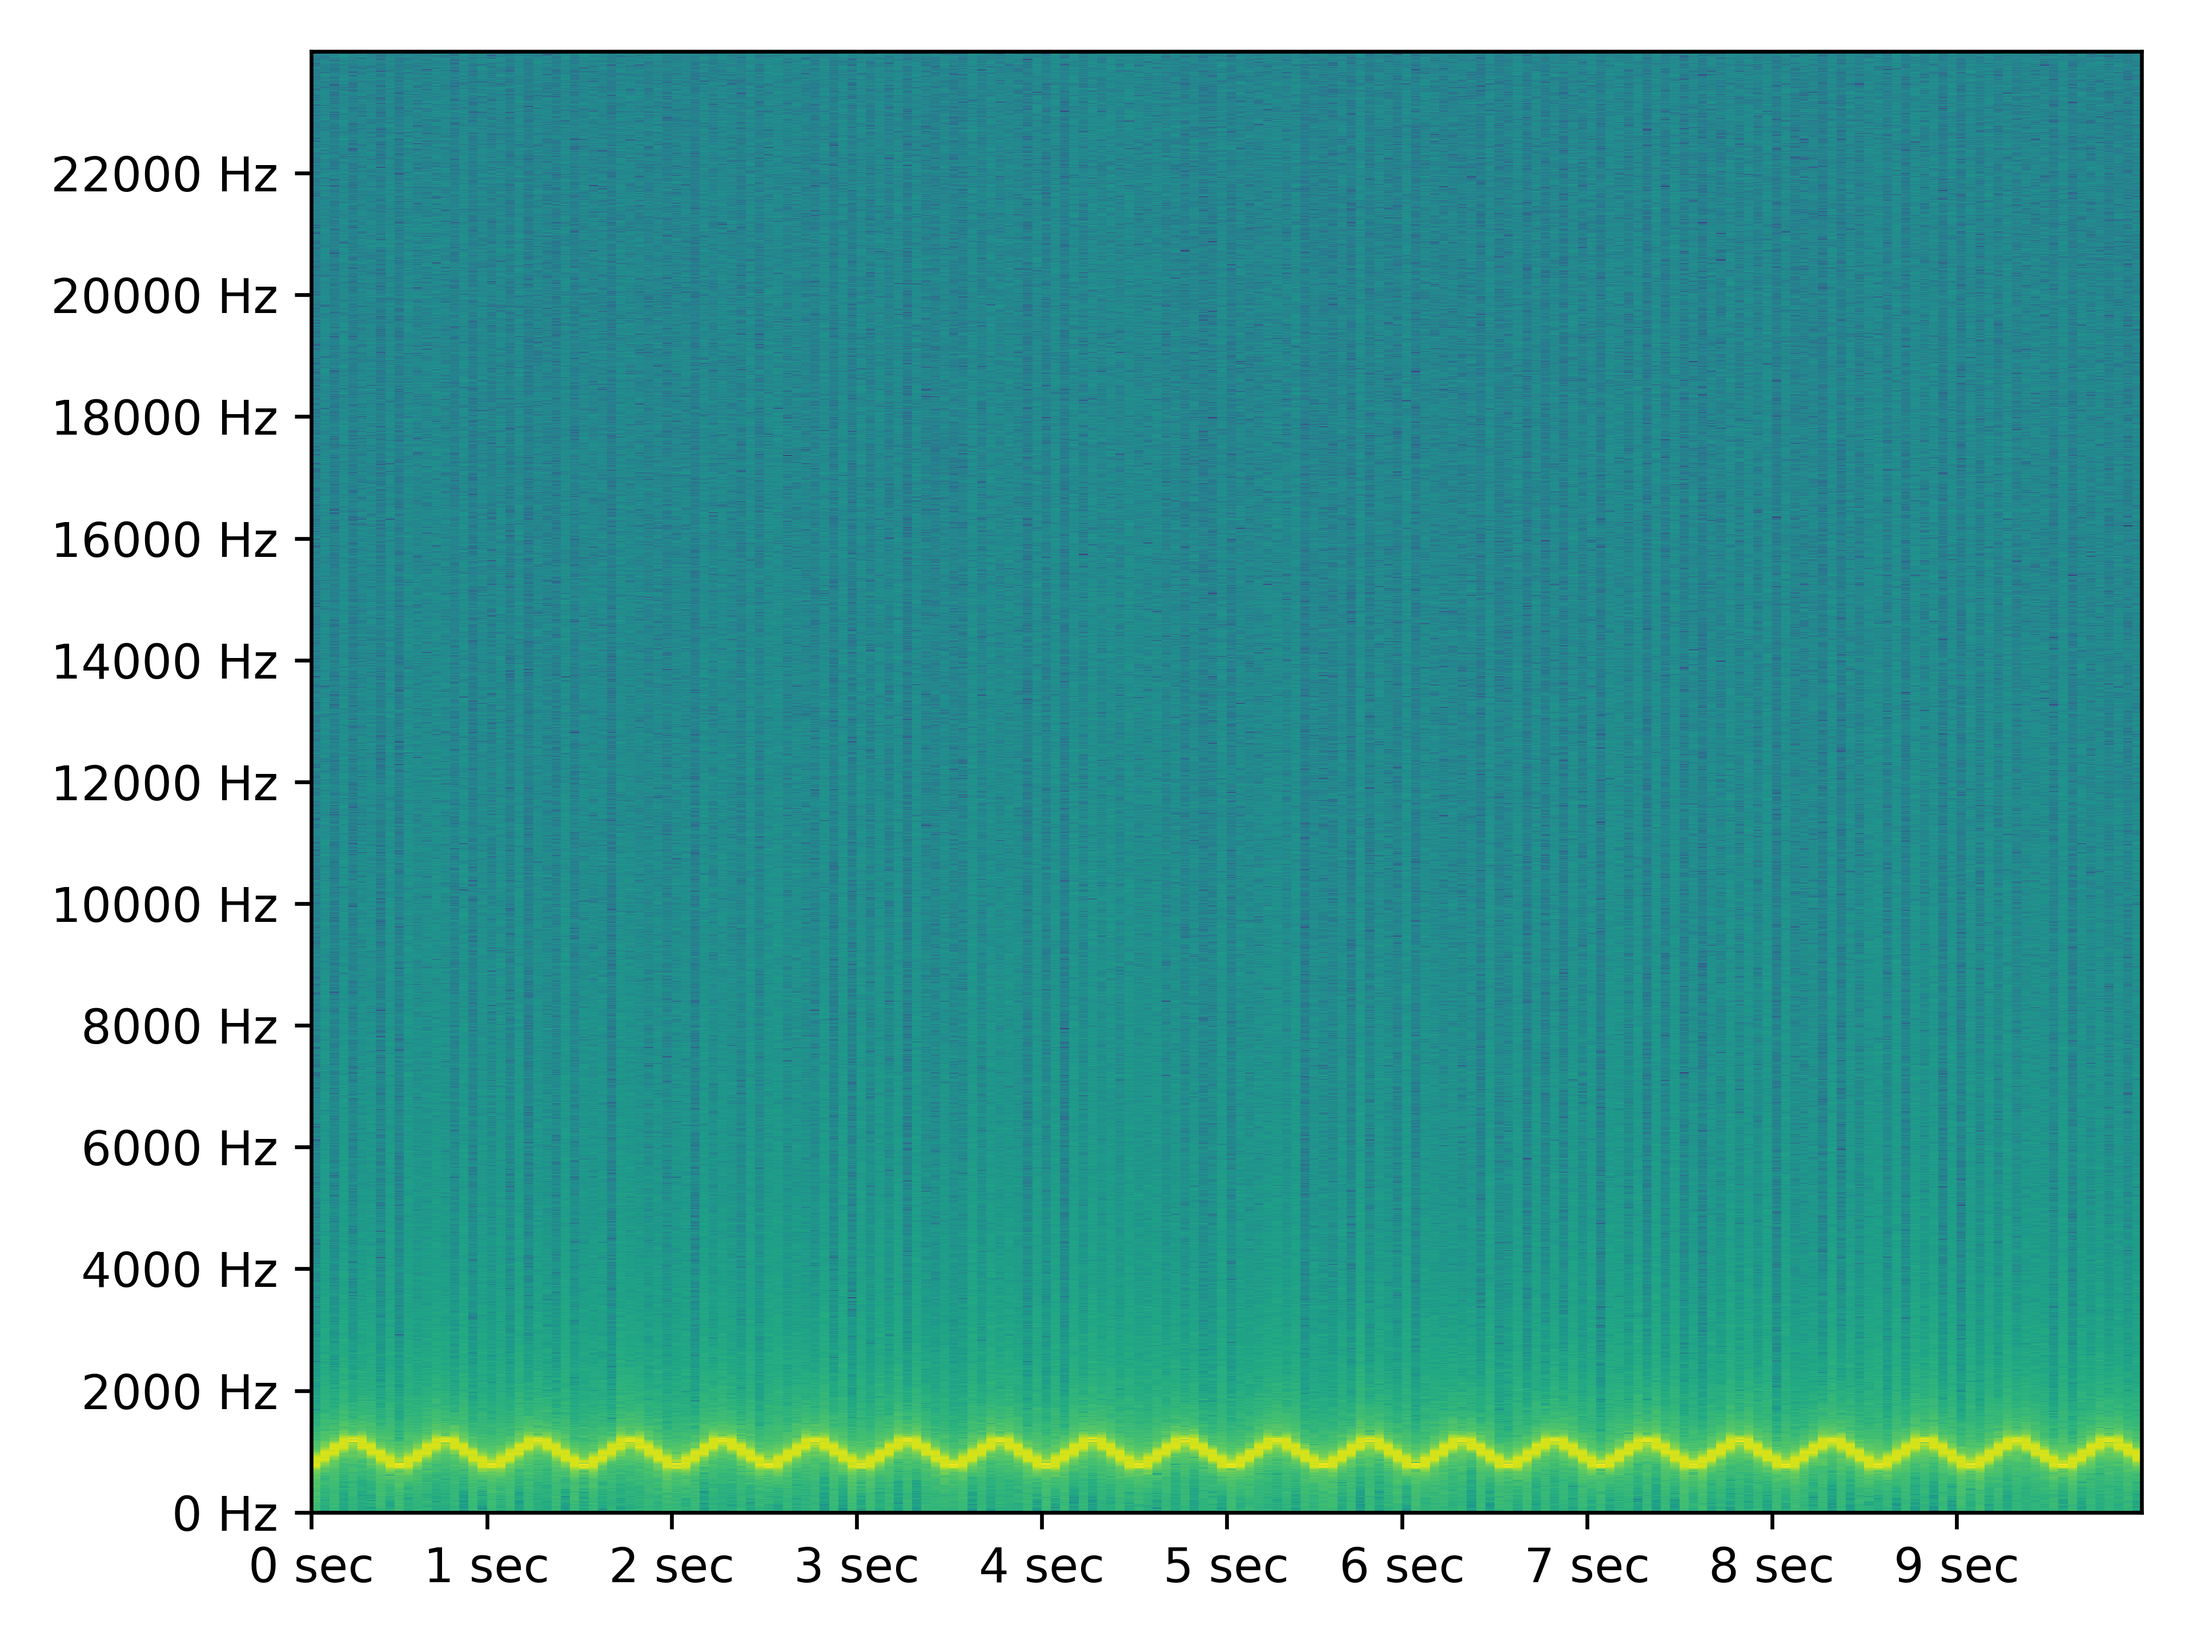
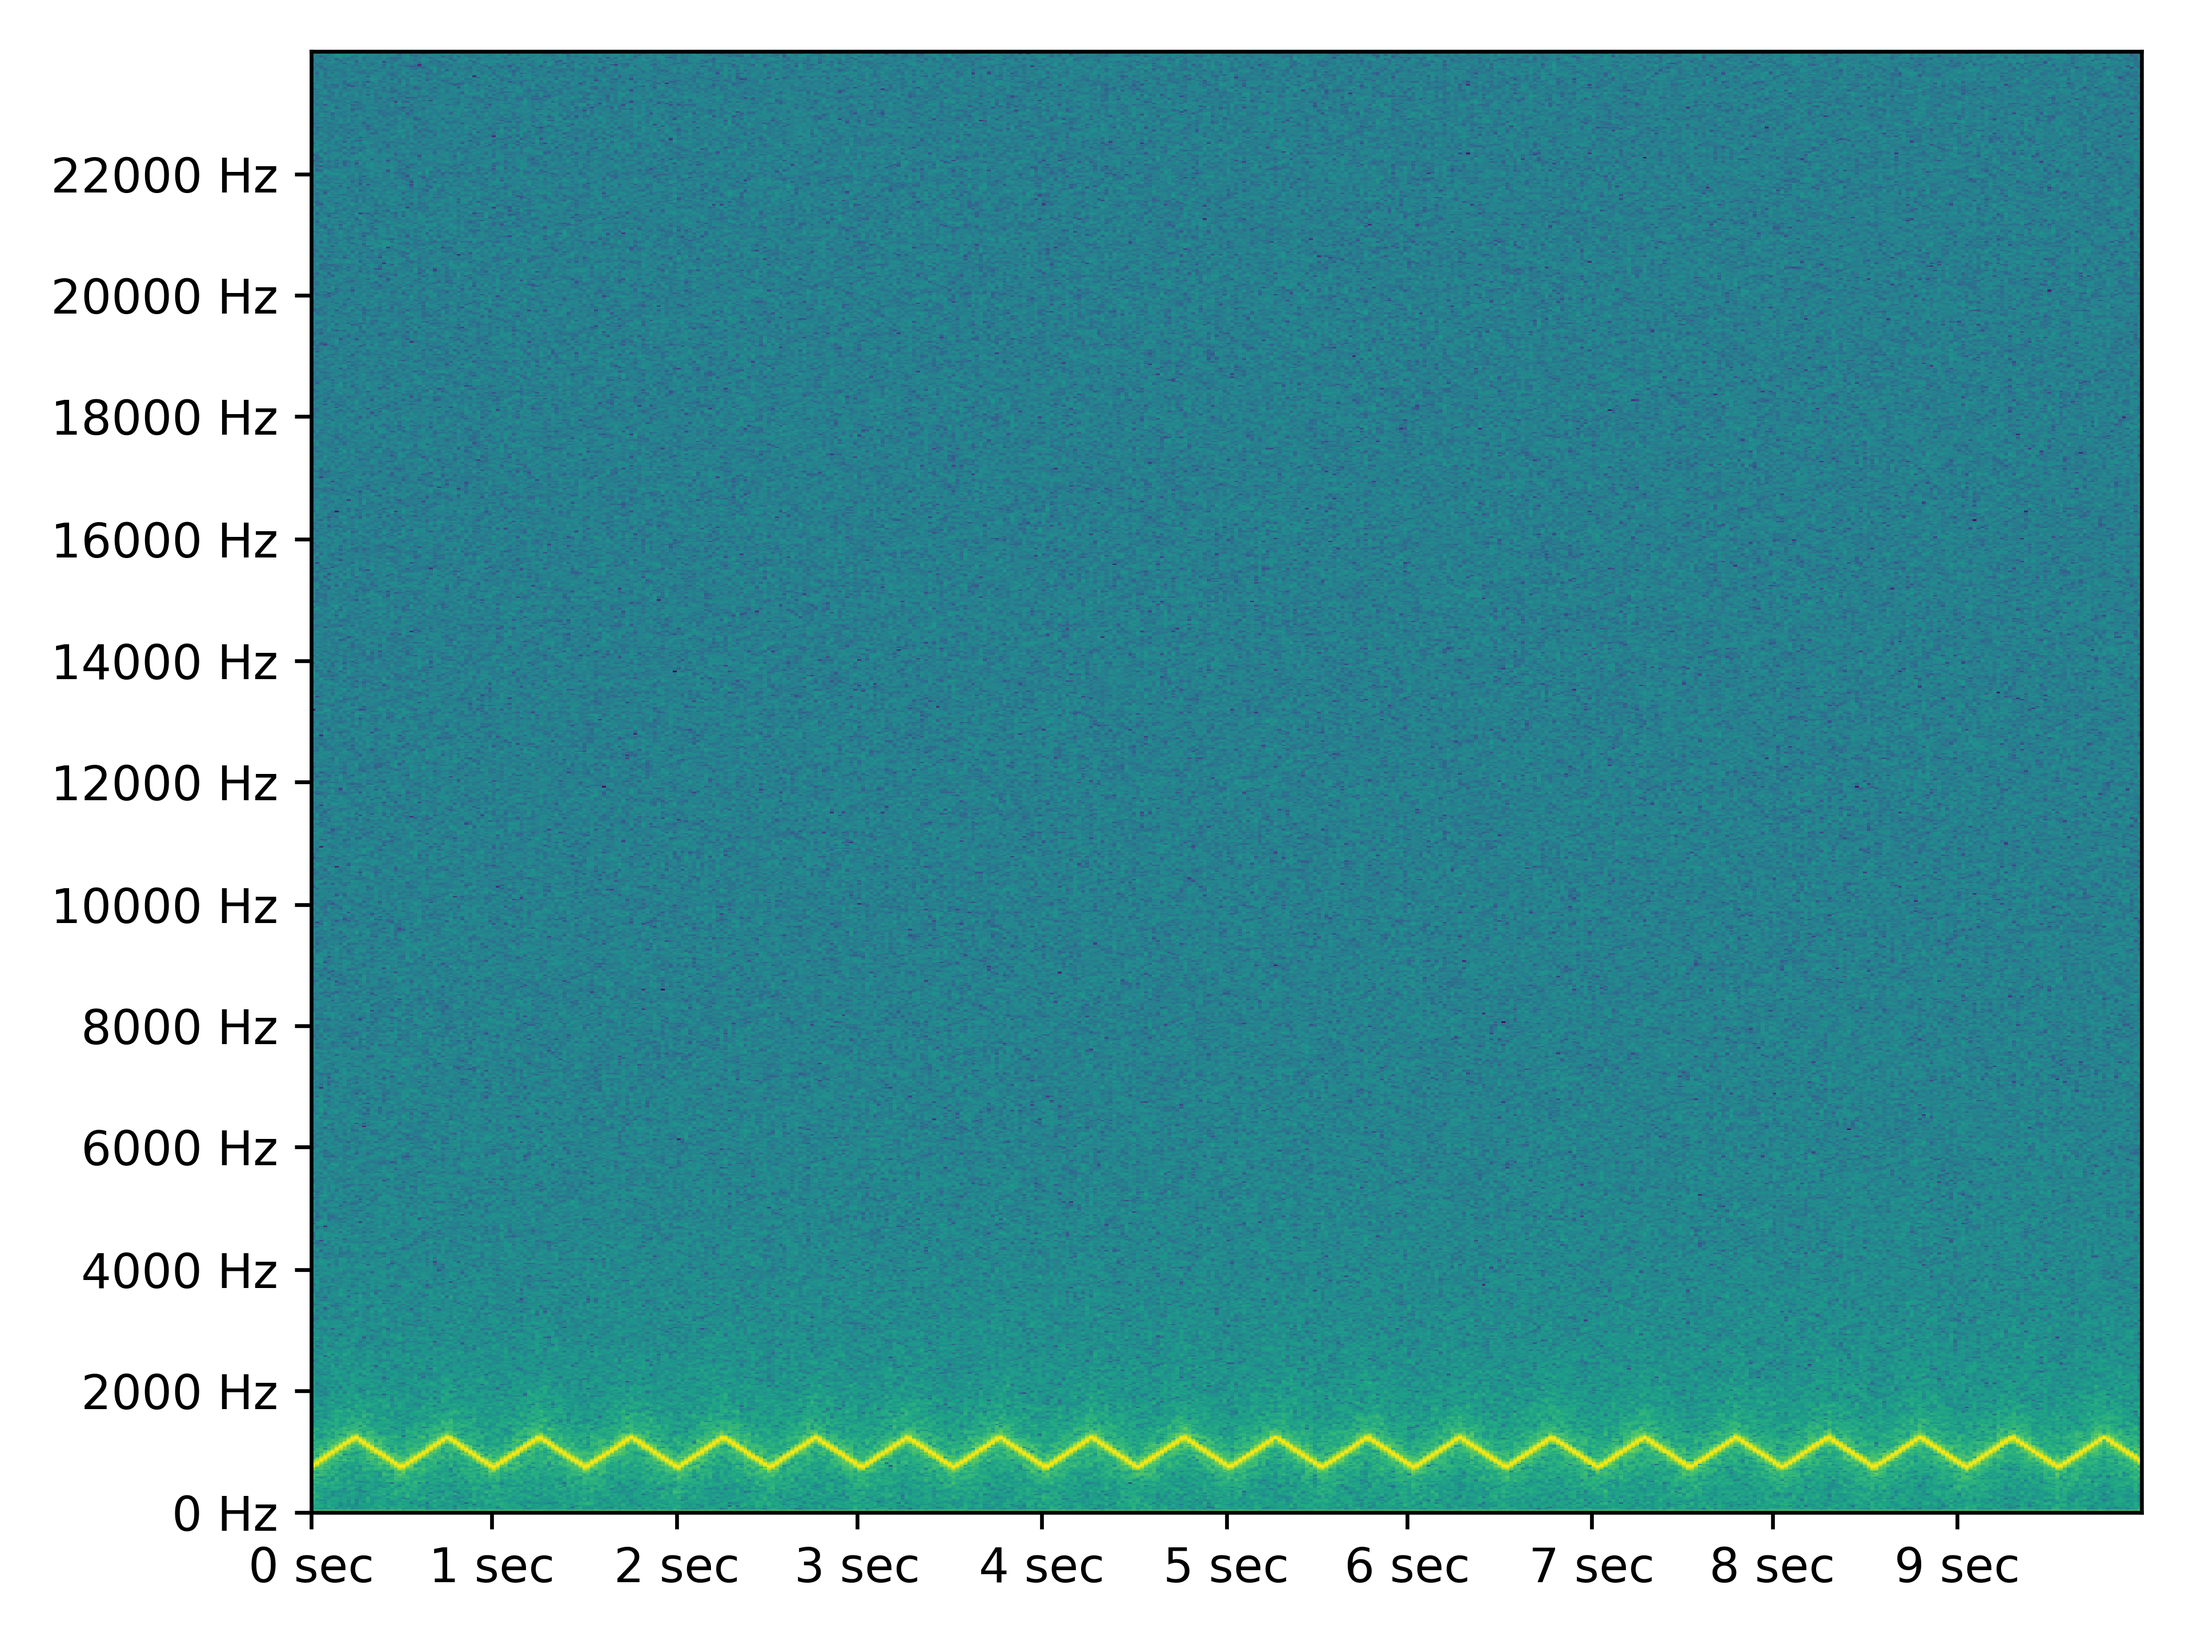
Improve spectrogram by adding window function and lowering window size

Changed region(s): [[0.125, 0.0312, 1.0, 0.9688], [0.0312, 0.0938, 0.0625, 0.125]]

diff --git a/Lab/Lab 4 spectrogram.py b/Lab/Lab 4 spectrogram.py
@@ -50,11 +50,13 @@ def generate_spectrogram(file: Path):
     else:
         assert sound.shape == (sound.size,)
 
-    window_size = sound.size // 100
+    window_size = 2048
     window_stride = window_size // 2
     windows = windowed_view(sound, window_size, window_stride)
     ffts = np.zeros(shape=(windows.shape[0], windows.shape[1] // 2))
+    hanning_window_filter = np.sin(np.linspace(0, np.pi, num=window_size)) ** 2
     for i, window in enumerate(windows):
+        window = window * hanning_window_filter
         fft = np.fft.fft(window)
         ffts[i, :] = 10 * np.log10(np.abs(fft[: window.size // 2]))
     plt.pcolormesh(ffts.T)
